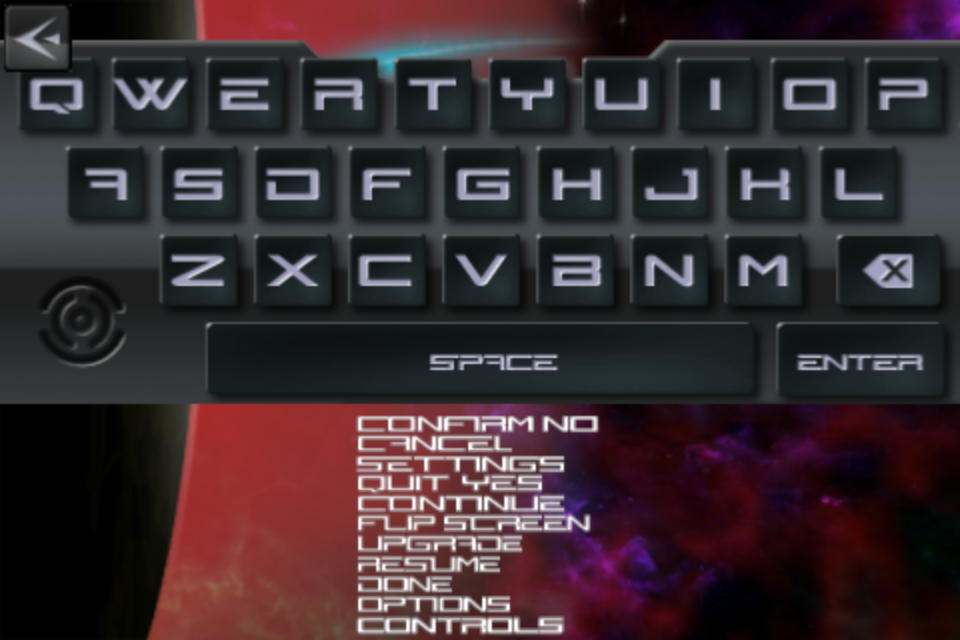
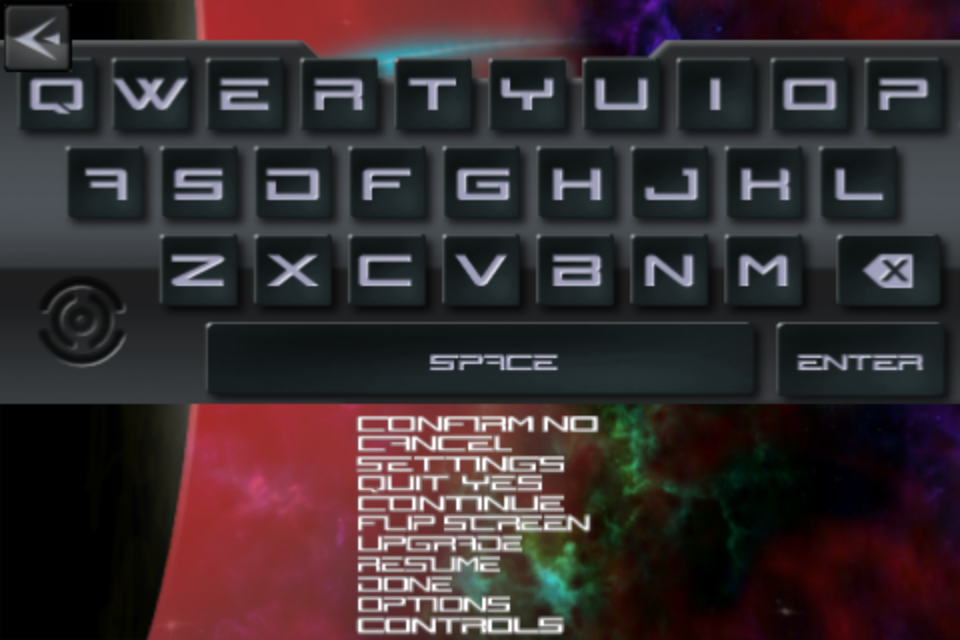
docs: refresh the menu screenshots for the backdrop change

diff --git a/worklog/2026-10-28.md b/worklog/2026-10-28.md
@@ -191,3 +191,5 @@ Reported by the player: score and upgrades did not carry into the next round, an
 - Found the menu backdrop only lines up with `original/screenshots/emu/main_menu.png` when the menu mesh's texture axes are swapped (u=y, v=x) and the scroll components swap with them. Hardcoded that for the flipped menu mesh; the play-plane mesh keeps its mapping so the glued ground scroll stays. Removed the experimental `MB_BG_*` hooks, kept `MB_BG_BASE`/`MB_BG_DECAL_TEX` for captures.
 - Verified with a paced `MB_SCROLL` scan (`MB_FPS=60`, frame 12): best whole-frame diff against the menu frame is 7.54 at scroll 280, down from 7.82/7.79; the swap lowered the right backdrop region (20.7 -> 16.7) while the horizon/left region stayed at 1.2-1.4. `cargo test` 12 pass; a stage capture still renders (mean 55.1, 5010 bright pixels).
 - Remaining: the emulator frame's unknown scroll phase and the PVRTC decode. The play-plane backdrop has no clean emulator frame yet, so it keeps the old axis mapping.
+
+- Refreshed the menu/scores/help screenshots for the new backdrop mapping.
